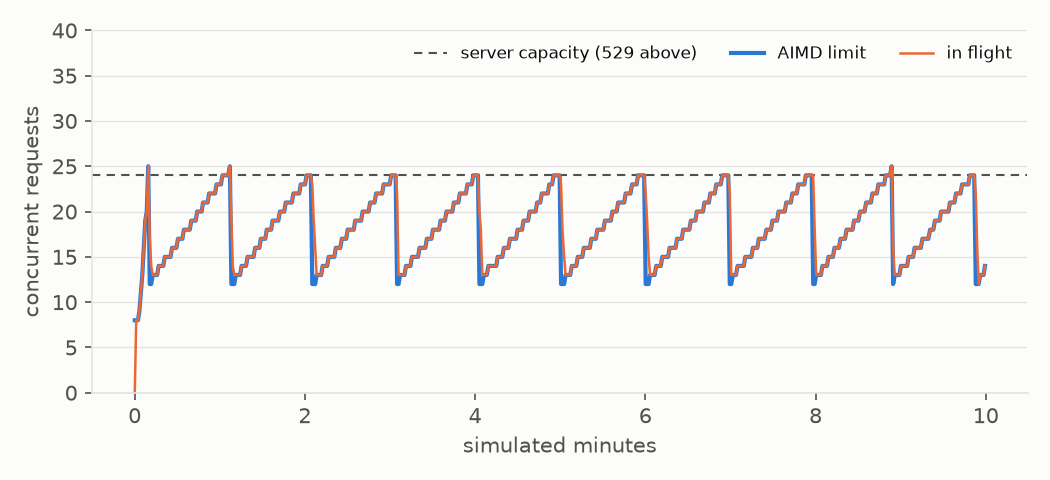
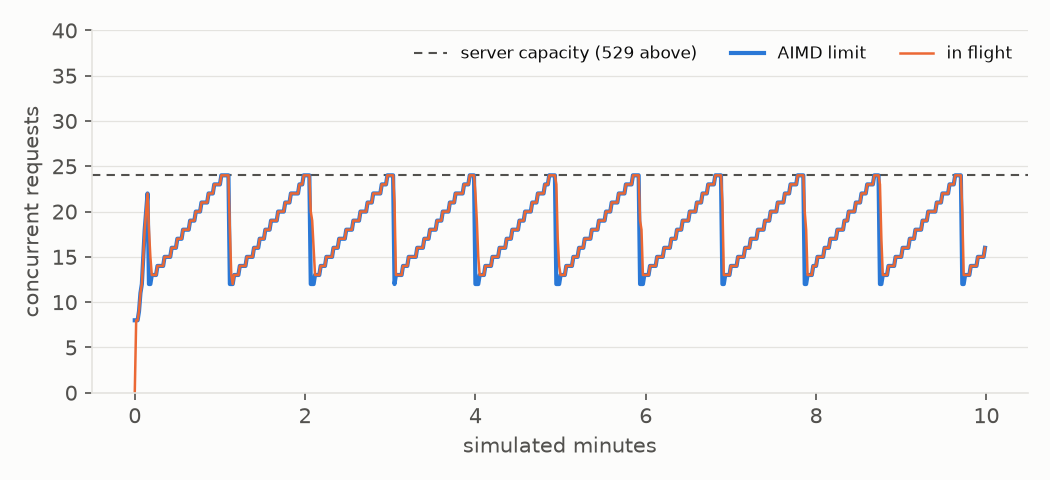
Run the convergence simulations on virtual time
The two convergence tests ran the gateway against the fake on a
ScaledClock at 60x wall time, so any delay of the event loop turned into
simulated latency. On a loaded machine they failed: with the load average
around 50 on 10 cores, the unchanged code failed one of the two tests in
4 of 5 runs here (the window took 40.7 simulated s to reach 23 slots,
bound 30; or the steady rate was 121 RPM, bound 255), on Python 3.12 and
3.13. A shared CI runner can hit the same.

simulate() now runs on the eval package's VirtualClock, as the benchmarks
do, which moves time only when every task is waiting. Both tests passed
in every run since (3 of 3 under the same load), and running
tests.runtime.simulate twice gives identical numbers and a byte-identical
figure.

This is about reliability, not speed: per test the new version uses
about 1.0 s and 0.45 s of CPU (the old one 0.45 s each, but it
needed at least 4 s and 5 s of wall time to cover 240 and 300 simulated
seconds); under the load above, wall times were similar.

docs/runtime.md quoted figures from the scaled-clock run, which varied
from run to run; they are re-measured on virtual time (window 8 to 45:
13 s, was 14 s; additive-only 173 s, was 175 s; 561 instead of 558
requests/min; new limit adopted after 1.0 s, was 1.3 s; overload table
244 vs 315 ok/min, 0.7% vs 49.2% 529s, was 242 vs 309 and 0.8% vs
52.2%), and docs/img/runtime-aimd.png is redrawn from the same run.

diff --git a/tests/runtime/simulate.py b/tests/runtime/simulate.py
@@ -4,6 +4,10 @@ The convergence tests use ``simulate``; running this module measures the
 numbers quoted in docs/runtime.md and draws docs/img/runtime-aimd.png:
 
     uv run python -m tests.runtime.simulate
+
+Simulations run on a ``VirtualClock``, which advances only when every task
+is waiting, so a run depends on its seed and not on how fast or how busy the
+machine is.
 """
 
 from __future__ import annotations
@@ -15,7 +19,8 @@ from dataclasses import dataclass, field
 from pathlib import Path
 from typing import Any
 
-from precis.llm import Gateway, GatewayError, ScaledClock
+from precis.eval.simclock import VirtualClock
+from precis.llm import Gateway, GatewayError
 from precis.llm.fake import FakeAnthropic, FakeReply, Faults, LatencyModel, ServerLimits
 from precis.llm.limiter import AIMDWindow, Outcome
 from precis.store import Store
@@ -77,7 +82,6 @@ async def simulate(
     *,
     duration_s: float,
     clients: int,
-    speed: float,
     limits: ServerLimits | None = None,
     faults: Faults | None = None,
     change_at: float | None = None,
@@ -87,7 +91,7 @@ async def simulate(
     seed: int = 0,
 ) -> SimResult:
     """Run ``clients`` agents that send requests back to back for ``duration_s``."""
-    clock = ScaledClock(speed)
+    clock = VirtualClock()
     fake = FakeAnthropic(
         [_reply],
         clock=clock,
@@ -138,7 +142,10 @@ async def simulate(
             )
             await clock.sleep(1.0)
 
-    await asyncio.gather(sampler(), *(client() for _ in range(clients)))
+    async def everyone() -> None:
+        await asyncio.gather(sampler(), *(client() for _ in range(clients)))
+
+    await clock.run(everyone())
     return result
 
 
@@ -159,7 +166,6 @@ async def _measure() -> None:
     r = await simulate(
         duration_s=900,
         clients=64,
-        speed=100,
         limits=limits,
         change_at=450,
         new_limits=halved,
@@ -187,7 +193,6 @@ async def _measure() -> None:
     r = await simulate(
         duration_s=450,
         clients=64,
-        speed=100,
         limits=limits,
         gateway_limits={"max_concurrency": 64, "slow_start": False},
     )
@@ -201,7 +206,6 @@ async def _measure() -> None:
         r = await simulate(
             duration_s=600,
             clients=64,
-            speed=100,
             faults=Faults(overload_above=24),
             gateway_limits={"max_concurrency": 64, "initial_concurrency": 8},
             fixed_concurrency=fixed,

diff --git a/tests/runtime/test_convergence.py b/tests/runtime/test_convergence.py
@@ -1,7 +1,7 @@
 """End-to-end behaviour of the gateway against the fake's server-side limits.
 
-These run in simulated time (``ScaledClock``) for a few simulated minutes
-each, so their assertions leave room for scheduling jitter.
+These run on virtual time (``VirtualClock``) for a few simulated minutes
+each, so they give the same result on a busy CI runner as on a fast laptop.
 """
 
 from precis.llm.fake import Faults, ServerLimits
@@ -14,7 +14,6 @@ async def test_slow_start_reaches_the_rate_limit_quickly_without_429s() -> None:
     r = await simulate(
         duration_s=240,
         clients=48,
-        speed=60,
         limits=limits,
         gateway_limits={"initial_concurrency": 8, "max_concurrency": 48},
     )
@@ -38,7 +37,6 @@ async def test_slow_start_stops_at_the_first_overload_then_aimd_settles() -> Non
     r = await simulate(
         duration_s=300,
         clients=48,
-        speed=60,
         faults=Faults(overload_above=12),
         gateway_limits={"initial_concurrency": 4, "max_concurrency": 48},
     )

diff --git a/docs/runtime.md b/docs/runtime.md
@@ -197,12 +197,12 @@ request arriving while more than 24 are in flight (64 closed-loop clients,
 
 | Concurrency control | Successful requests/min | Responses that were 529 | Mean in flight |
 |---|---|---|---|
-| AIMD with slow start (8 → 64 ceiling) | 242 | 0.8 % | 18.4 |
-| Fixed at 64 | 309 | 52.2 % | 24.1 |
+| AIMD with slow start (8 → 64 ceiling) | 244 | 0.7 % | 18.3 |
+| Fixed at 64 | 315 | 49.2 % | 24.1 |
 
 Slow start takes the window from 8 to the capacity in about ten seconds
 (the spike at the left of the figure) and stops at 25, one past the
-capacity, where the first 529 halves it. A fixed window gets 28 % more through because the fake's overload answer is
+capacity, where the first 529 halves it. A fixed window gets 29 % more through because the fake's overload answer is
 nearly free (0.1 s) and retries land in the gaps; it does so by sending about
 one failed request per successful one. Against the real API, where an
 overloaded service is slow and every client's retries add to the load, the
@@ -421,26 +421,29 @@ models what the runtime reacts to:
 
 All randomness comes from one `Random(seed)`. Time comes from a `Clock`:
 `ScaledClock(100)` runs fifteen simulated minutes in about nine seconds of
-wall time with every component keeping its real-world parameters, and
-`ManualClock` lets a unit test assert that a retry waited exactly
-`retry-after`.
+wall time with every component keeping its real-world parameters;
+`VirtualClock` (`precis.eval.simclock`), which the closed-loop simulations
+and the benchmarks use, jumps to the next wake-up whenever every task is
+waiting, so their results depend on the seed and not on how fast or busy
+the machine is; and `ManualClock` lets a unit test assert that a retry
+waited exactly `retry-after`.
 
 ## Measurements
 
-Closed-loop simulation (`uv run python -m tests.runtime.simulate`): 64
-clients send `claude-opus-5-5` requests back to back (~1,000 input and 300
+Closed-loop simulation (`uv run python -m tests.runtime.simulate`), on
+virtual time, so the figures are exactly reproducible: 64 clients send `claude-opus-5-5` requests back to back (~1,000 input and 300
 output tokens each, ~4.5 s latency with 30 % log-normal jitter) against a
 fake with 600 RPM, 1.2M ITPM and 240K OTPM. Nothing is configured; every
 limit is learned from headers. At 450 s the fake halves its request limit.
 
 | Measure | Slow start (default) | Additive only (`slow_start = false`) |
 |---|---|---|
-| Time for the window to grow from 8 to 45 (enough for 600 RPM) | 14 s | 175 s |
-| Requests/min, 60-450 s | 600 of 600 | 558 of 600 |
-| 429 responses | 0 of 6,836 | 0 |
+| Time for the window to grow from 8 to 45 (enough for 600 RPM) | 13 s | 173 s |
+| Requests/min, 60-450 s | 600 of 600 | 561 of 600 |
+| 429 responses | 0 of 6,839 | 0 |
 | Requests/min, 240-450 s (window settled) | 600 of 600 | |
 | Input / output tokens/min, 240-450 s | 601K / 180K | |
-| New 300 RPM limit adopted after the change | 1.3 s (the next response) | |
+| New 300 RPM limit adopted after the change | 1.0 s (the next response) | |
 | 30-s windows after the change | mean 300 RPM, max 316 RPM, 0 429s | |
 | Failed requests | 0 | 0 |
 
@@ -449,7 +452,7 @@ at the limit without a single 429 because it reads the limit from the
 first response and spends its burst conservatively: once the window is
 large enough, the request bucket, not the window, sets the rate. With slow
 start the window gets there in three round trips instead of three minutes,
-which is the whole difference between 558 and 600 requests per minute
+which is the whole difference between 561 and 600 requests per minute
 over the first 450 seconds.
 
 ## Limitations
